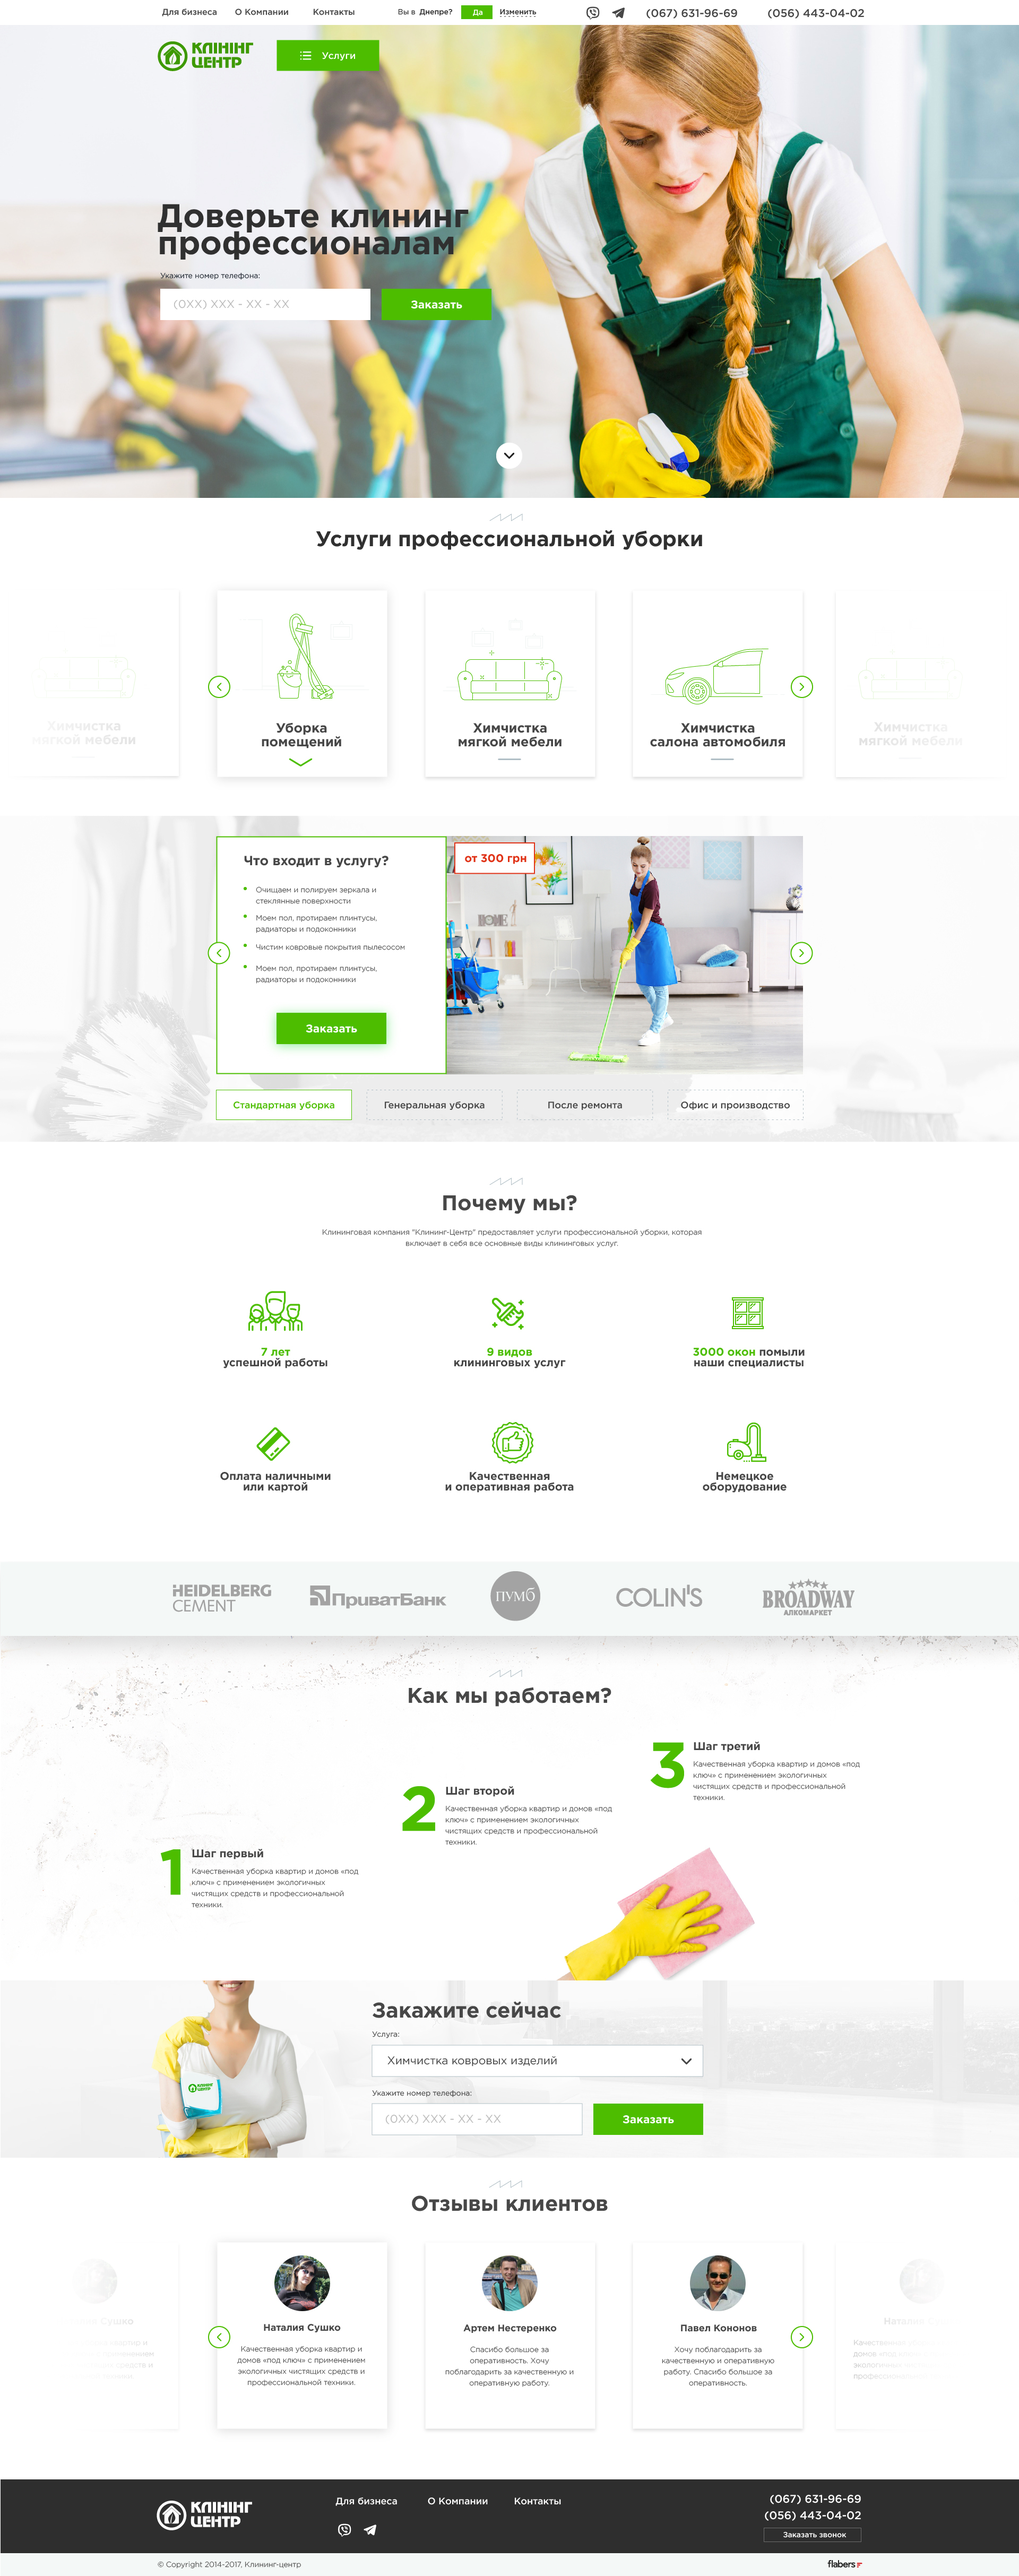
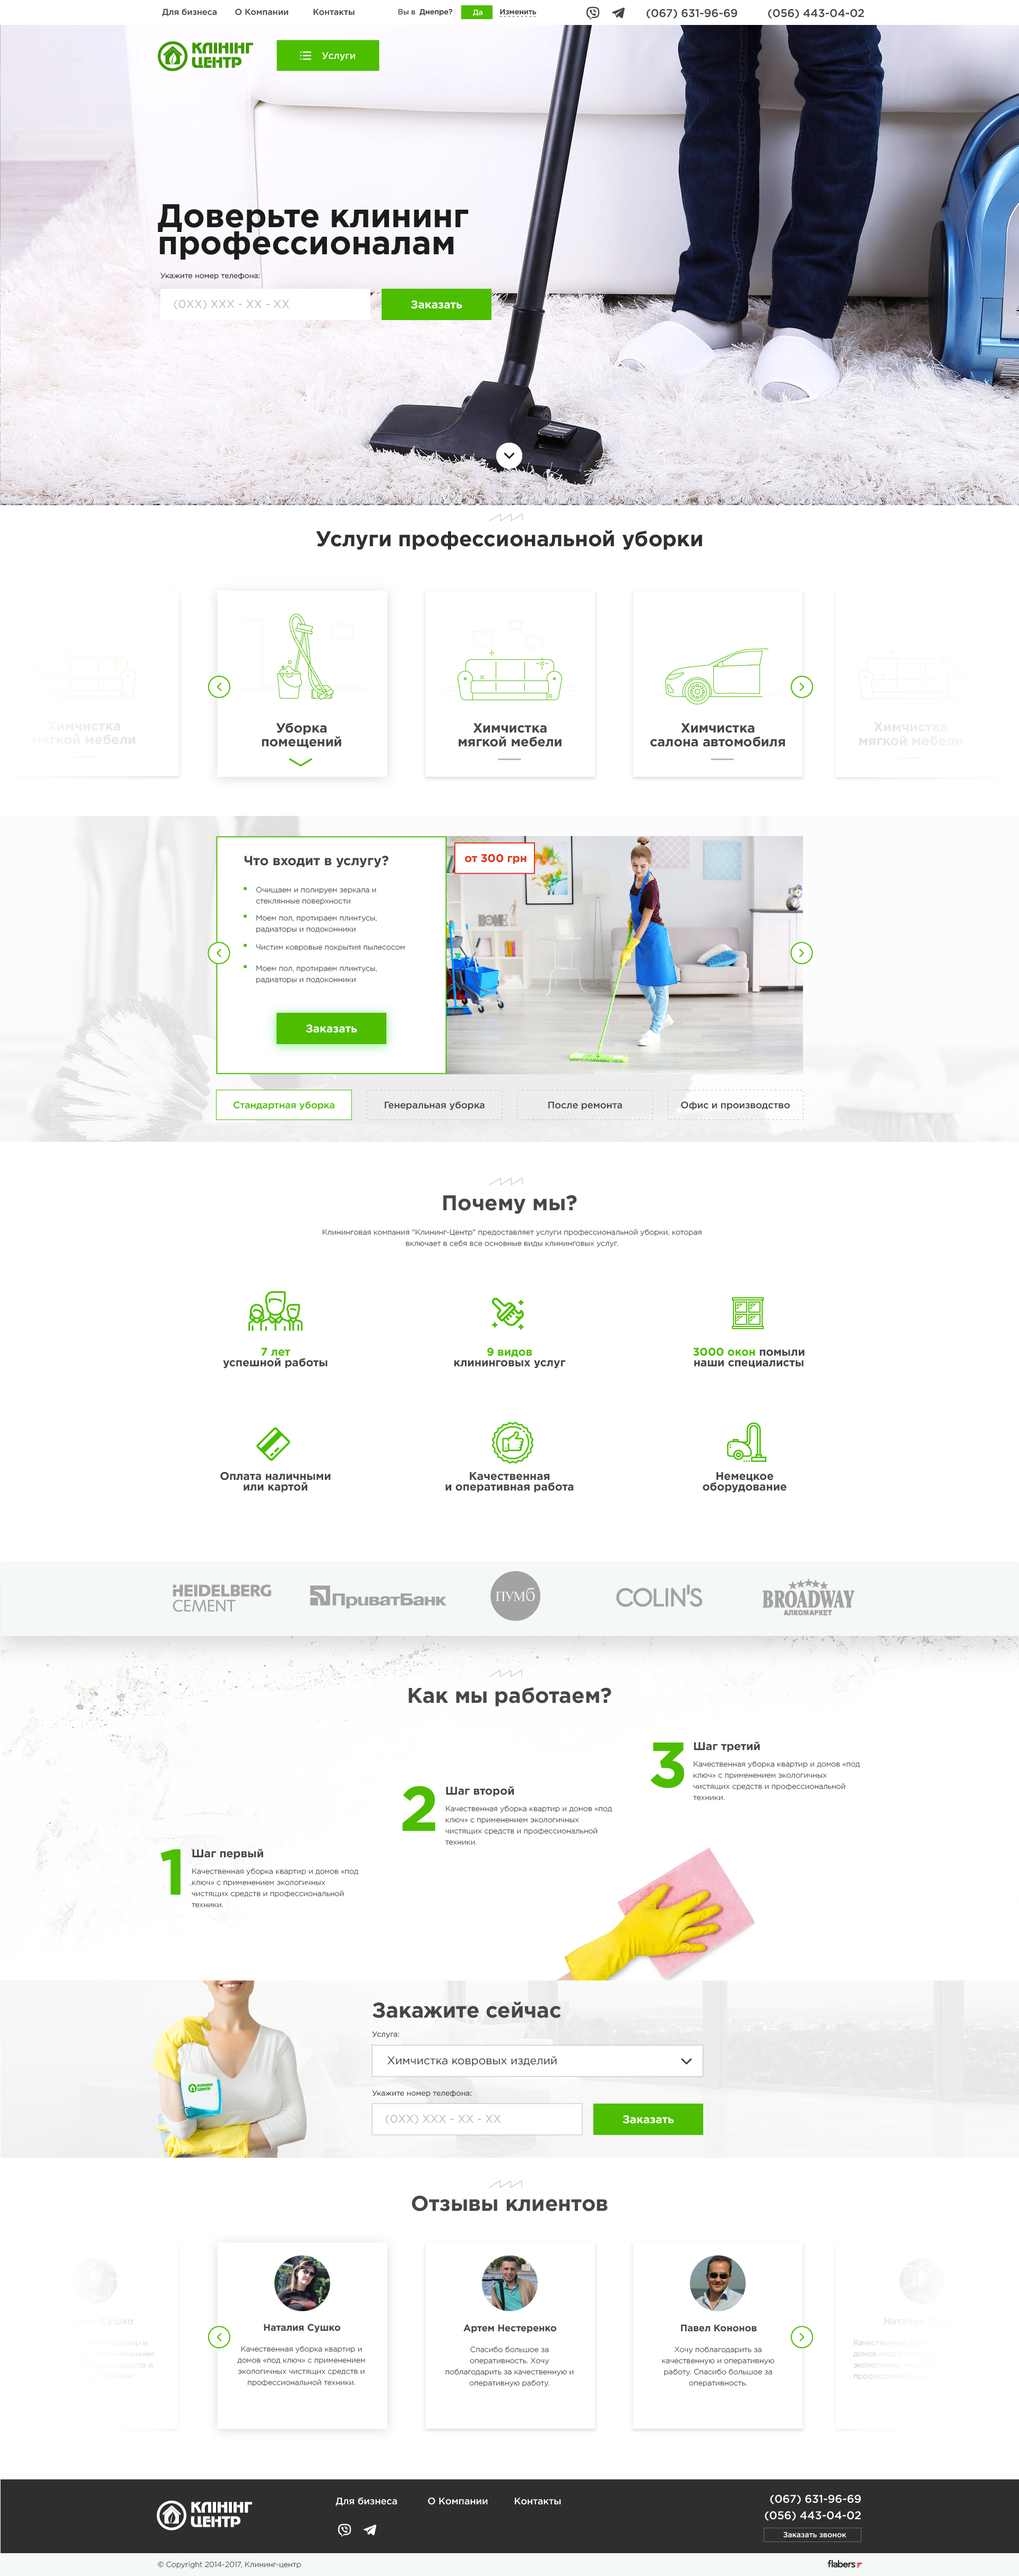
123

Changed region(s): [[0.0, 0.0, 1.0, 0.2178]]

diff --git a/portfolio/cleanc/css/project.css b/portfolio/cleanc/css/project.css
@@ -22,19 +22,32 @@ img {
   /*height: var(--index-height);*/
 }
 
-.menu-page {
-  background:url(../img/menu.jpg) no-repeat top center;
-  height: 2785px;
+.index-page2 {
+  background:url(../img/home2.jpg) no-repeat top center;
+  height: 4853px;
   /*height: var(--index-height);*/
 }
 
-.cat-page {
-  background:url(../img/cat.jpg) no-repeat top center;
-  height: 1718px;
+.index-page3 {
+  background:url(../img/home3.jpg) no-repeat top center;
+  height: 4853px;
   /*height: var(--cat-height);*/
 }
 
-.page-page {
-  background:url(../img/page.jpg) no-repeat top center;
-  height: 1778px;
+.index-page4 {
+  background:url(../img/home4.jpg) no-repeat top center;
+  height: 4853px;
   /*height: var(--page-height);*/
+}
+
+.index-page5 {
+  background:url(../img/home5.jpg) no-repeat top center;
+  height: 4853px;
+  /*height: var(--page-height);*/
+}
+
+.index-page6 {
+  background:url(../img/home6.jpg) no-repeat top center;
+  height: 4853px;
+  /*height: var(--page-height);*/
+}

diff --git a/portfolio/cleanc/index2.html b/portfolio/cleanc/index2.html
@@ -6,8 +6,8 @@
   <link rel="stylesheet" href="css/project.css">
 </head>
 <body>
-  <a href="index2.html">
-    <div class="page index-page">
+  <a href="index3.html">
+    <div class="page index-page2">
       <img src="link">
     </div>
   </a>

diff --git a/portfolio/cleanc/index3.html b/portfolio/cleanc/index3.html
@@ -6,8 +6,8 @@
   <link rel="stylesheet" href="css/project.css">
 </head>
 <body>
-  <a href="index2.html">
-    <div class="page index-page">
+  <a href="index4.html">
+    <div class="page index-page3">
       <img src="link">
     </div>
   </a>

diff --git a/portfolio/cleanc/index4.html b/portfolio/cleanc/index4.html
@@ -6,8 +6,8 @@
   <link rel="stylesheet" href="css/project.css">
 </head>
 <body>
-  <a href="index2.html">
-    <div class="page index-page">
+  <a href="index5.html">
+    <div class="page index-page4">
       <img src="link">
     </div>
   </a>

diff --git a/portfolio/cleanc/index5.html b/portfolio/cleanc/index5.html
@@ -6,8 +6,8 @@
   <link rel="stylesheet" href="css/project.css">
 </head>
 <body>
-  <a href="index2.html">
-    <div class="page index-page">
+  <a href="index6.html">
+    <div class="page index-page5">
       <img src="link">
     </div>
   </a>

diff --git a/portfolio/cleanc/index6.html b/portfolio/cleanc/index6.html
@@ -6,8 +6,8 @@
   <link rel="stylesheet" href="css/project.css">
 </head>
 <body>
-  <a href="index2.html">
-    <div class="page index-page">
+  <a href="index.html">
+    <div class="page index-page6">
       <img src="link">
     </div>
   </a>
